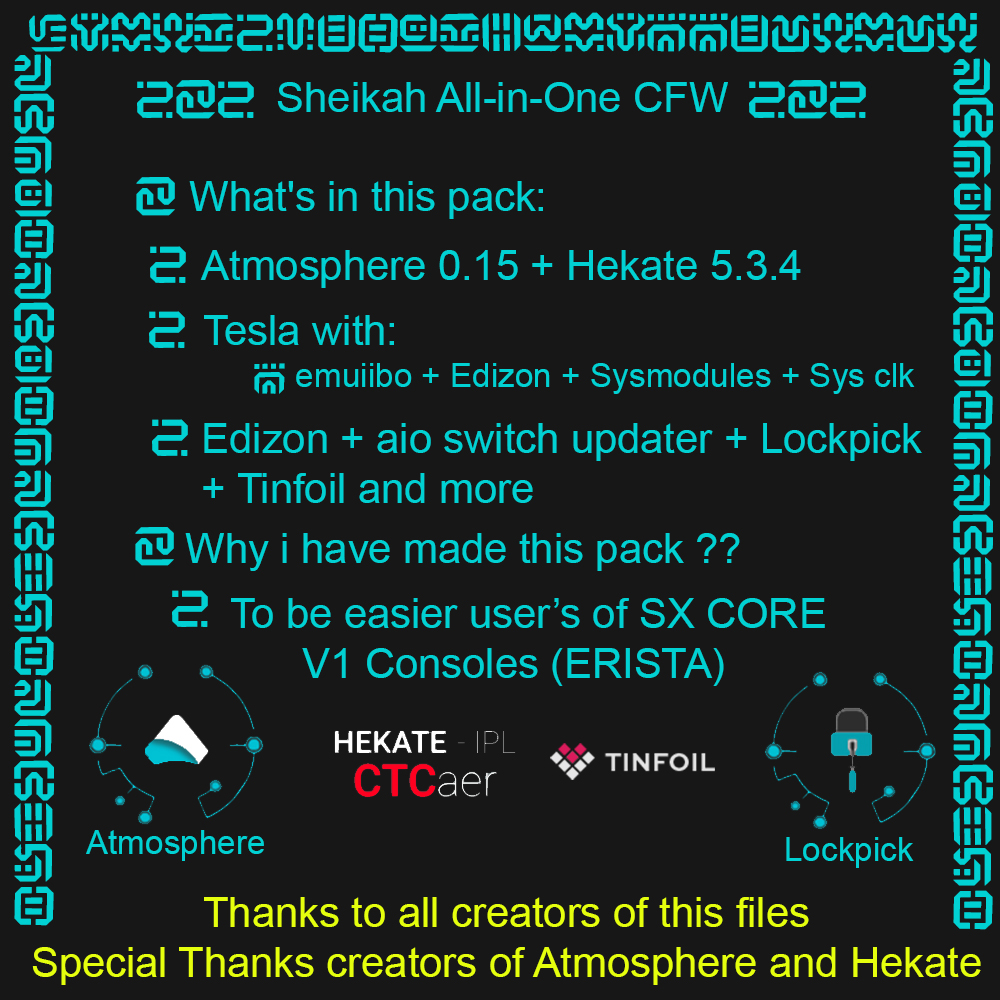
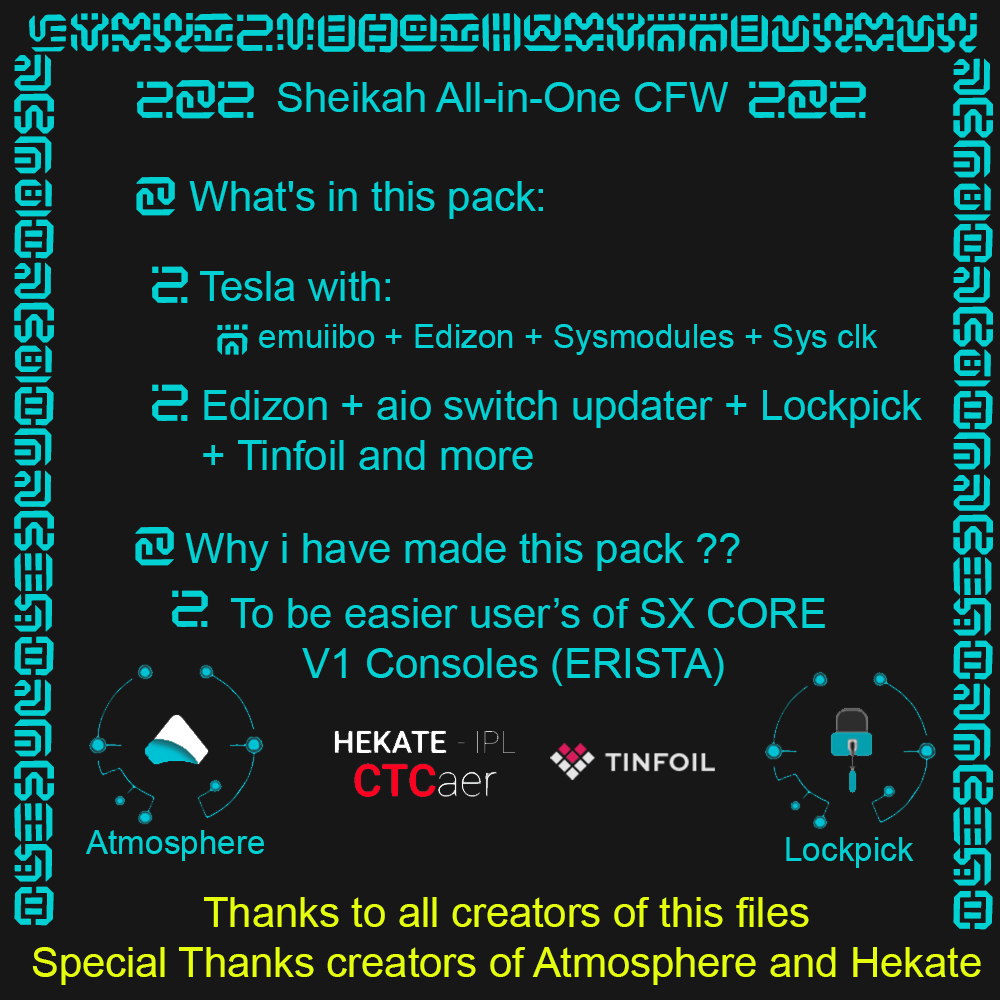
v2

Changed region(s): [[0.124, 0.248, 0.93, 0.527]]

diff --git a/README.md b/README.md
@@ -1,160 +1,41 @@
-# sys-clk
-
-Switch sysmodule allowing you to set cpu/gpu/mem clocks according to the running application and docked state.
-
-## Installation
-
-The following instructions assumes you have a Nintendo Switch running Atmosphère, updated to at least the latest stable version.
-Copy the `atmosphere`, and `switch` folders at the root of your sdcard, overwriting files if prompted. Also copy the `config` folder if you're not updating, to include default settings.
-
-**Note:** sys-clk-overlay requires to have [Tesla](https://gbatemp.net/threads/tesla-the-nintendo-switch-overlay-menu.557362/) installed and running
-
-## Relevant files
-
-* Config file allows one to set custom clocks per docked state and title id, described below
-
-	`/config/sys-clk/config.ini`
-
-* Log file where the logs are written if enabled
-
-	`/config/sys-clk/log.txt`
-
-* Log flag file enables log writing if file exists
-
-	`/config/sys-clk/log.flag`
-
-* CSV file where the title id, profile, clocks and temperatures are written if enabled
-
-	`/config/sys-clk/context.csv`
-
-* sys-clk manager app (accessible from the hbmenu)
-
-	`/switch/sys-clk-manager.nro`
-
-* sys-clk overlay (accessible from anywhere by invoking the [Tesla menu](https://gbatemp.net/threads/tesla-the-nintendo-switch-overlay-menu.557362/))
-
-	`/switch/.overlays/sys-clk-overlay.ovl`
-	
-* sys-clk core sysmodule
-
-	`/atmosphere/contents/00FF0000636C6BFF/exefs.nsp`
-	`/atmosphere/contents/00FF0000636C6BFF/flags/boot2.flag`
-
-## Config
-
-Presets can be customized by adding them to the ini config file located at `/config/sys-clk/config.ini`, using the following template for each app 
-
-```
-[Application Title ID]
-docked_cpu=
-docked_gpu=
-docked_mem=
-handheld_charging_cpu=
-handheld_charging_gpu=
-handheld_charging_mem=
-handheld_charging_usb_cpu=
-handheld_charging_usb_gpu=
-handheld_charging_usb_mem=
-handheld_charging_official_cpu=
-handheld_charging_official_gpu=
-handheld_charging_official_mem=
-handheld_cpu=
-handheld_gpu=
-handheld_mem=
-```
-
-* Replace `Application Title ID` with the title id of the game/application you're interested in customizing.
-A list of games title id can be found in the [Switchbrew wiki](https://switchbrew.org/wiki/Title_list/Games).
-* Frequencies are expressed in mhz, and will be scaled to the nearest possible values, described in the clock table below.
-* If any key is omitted, value is empty or set to 0, it will be ignored, and stock clocks will apply.
-* If charging, sys-clk will look for the frequencies in that order, picking the first found 
-	1. Charger specific config (USB or Official) `handheld_charging_usb_X` or `handheld_charging_official_X`
-	2. Non specific charging config `handheld_charging_X`
-	3. Handheld config `handheld_X`
-
-### Example 1: Zelda BOTW
-
-* Overclock CPU when docked or charging
-* Overclock MEM to docked clocks when handheld
-
-Leads to a smoother framerate overall (ex: in the korok forest)
-
-```
-[01007EF00011E000]
-docked_cpu=1224
-handheld_charging_cpu=1224
-handheld_mem=1600
-```
-
-### Example 2: Picross
-
-* Underclocks on handheld to save battery
-
-```
-[0100BA0003EEA000]
-handheld_cpu=816
-handheld_gpu=153
-handheld_mem=800
-```
-
-### Advanced
-
-The `[values]` section allows you to alter timings in sys-clk, you should not need to edit any of these unless you know what you are doing. Possible values are:
-
-| Key                     | Desc                                                                          | Default |
-|:-----------------------:|-------------------------------------------------------------------------------|:-------:|
-|**temp_log_interval_ms** | Defines how often sys-clk log temperatures, in milliseconds (`0` to disable)  | 0 ms    |
-|**csv_write_interval_ms**| Defines how often sys-clk writes to the CSV, in milliseconds (`0` to disable) | 0 ms    |
-|**poll_interval_ms**     | Defines how fast sys-clk checks and applies profiles, in milliseconds         | 300 ms  |
-
-
-## Capping
-
-To protect the battery from excessive strain, clocks requested from config may be capped before applying, depending on your current profile:
-
-|       | Handheld | Charging (USB) | Charging (Official) | Docked |
-|:-----:|:--------:|:--------------:|:-------------------:|:------:|
-|**MEM**| -        | -              | -                   | -      |
-|**CPU**| -        | -              | -                   | -      |
-|**GPU**| 460      | 768            | -                   | -      |
-
-## Clock table (MHz)
-
-### MEM clocks
-* 1600 → official docked, boost mode, max clock
-* 1331 → official handheld
-* 1065
-* 800
-* 665
-
-### CPU clocks
-* 1785 → max clock, boost mode
-* 1683
-* 1581
-* 1428
-* 1326
-* 1224 → sdev oc
-* 1122
-* 1020 → official docked & handheld
-* 918
-* 816
-* 714
-* 612
-
-### GPU clocks
-* 921 → max clock
-* 844
-* 768 → official docked
-* 691
-* 614
-* 537
-* 460 → max handheld
-* 384 → official handheld
-* 307 → official handheld
-* 230
-* 153
-* 76 → boost mode
-
-**Notes:**
-1. GPU overclock is capped at 460Mhz in handheld and capped at 768Mhz if charging, unless you're using the official charger.
-2. Clocks higher than 768MHz need the official charger is plugged in.
+<p>Why i have made this pack ?</p>
+To be easier for user's of SXCORE</br>
+</br>
+Thanks to @mrdude because of AutoIPS sig Patcher (WORKING Very WELL!!!!) and Thanks to @ShadowOne333 who share Sigpatches for Atmosphere  :D</br>
+</br>
+What's in this pack:</br>
+</br>
+Tinfoil is included on zip.</br>
+</br>
+AIO-switch-updater</br>
+Author: Homlet</br>
+</br>
+Tesla</br>
+Author: WerWolv</br>
+</br>
+with:
+</br>
+ovl-sysmodules
+Author: WerWolv
+</br>
+sys-ftpd-ovl
+Author: SegFault42
+</br>
+EdiZon
+Author: WerWolv
+</br>
+emuiibo
+Author:XorTroll
+</br>
+What's New ??</br>
+v2</br>
+</br>
+BootLogo Hekate made by @NekoMichi Thks for Inspiration</br>
+</br>
+How to use?</br>
+do this guide Running Atmosphere on Erista Patched SX Core Switch but use this files XD</br>
+</br>
+if you have already use on SX OS Emunand: Only copy the files to sdcard and put on switch, power on and Choose Options, click Sx Core, and than cleanup ALWAYS!! and Press Payloads, launch Hekate, press Launch and than CFW emuMMC.</br>
+</br>
+Disclaimer</br>
+Im Distributing this files for help people with difficulties with modchip and configurate them, At the owner's request, I will immediately remove the ability to download the problematic files.</br>
